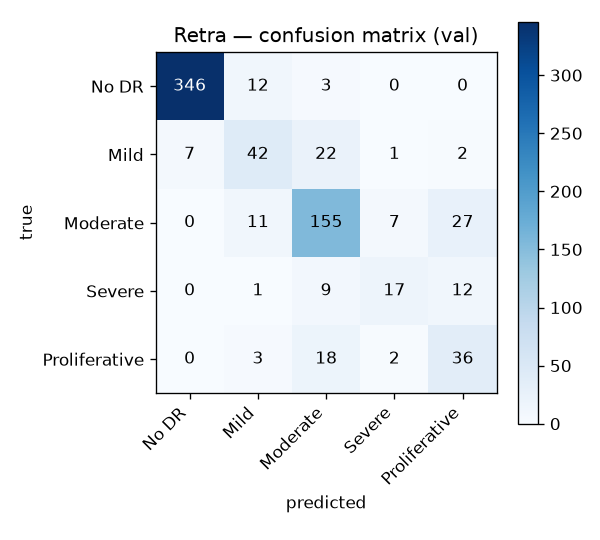
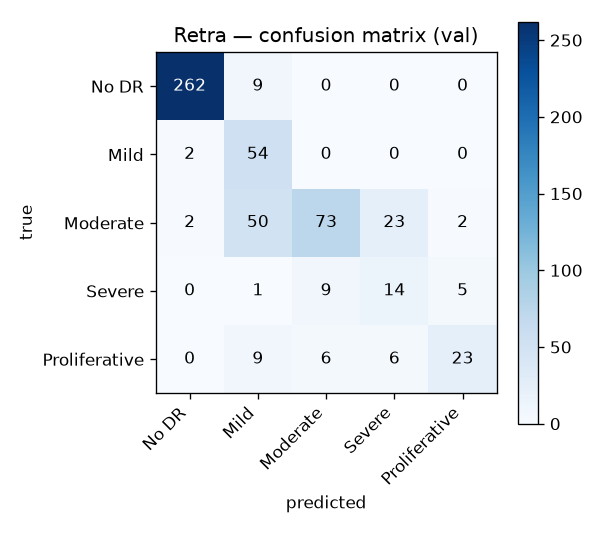
updated results for the b3 model

diff --git a/README.md b/README.md
@@ -34,20 +34,25 @@ Proliferative DR case.*
 
 ## Results
 
-EfficientNet-B0, 20 epochs, class-weighted loss, on the APTOS 2019 validation
-split (733 images, best epoch):
+EfficientNet-B3 @ 300px with Ben Graham preprocessing, class-weighted +
+label-smoothed loss, cosine LR, EMA weights, and test-time augmentation —
+selected on **quadratic weighted kappa** (the standard DR grading metric) over
+the APTOS 2019 validation split (550 images):
 
-| metric      | value |
-| ----------- | ----- |
-| accuracy    | 0.813 |
-| macro F1    | 0.673 |
-| weighted F1 | 0.814 |
+| metric                | B0 baseline | B3 (current) |
+| --------------------- | ----------- | ------------ |
+| quadratic kappa (QWK) | 0.78        | **0.868**    |
+| accuracy              | 0.813       | 0.775        |
+| macro F1              | 0.673       | 0.641        |
 
 ![Confusion matrix](docs/confusion_matrix.png)
 
-Per-class F1 runs from 0.97 (No DR) down to ~0.52 for the rarer Severe /
-Proliferative grades — the usual APTOS class imbalance. Reproduce with
-`python ml/evaluate.py`.
+QWK improves a lot because most remaining errors are *adjacent* grades (e.g.
+Moderate→Mild), which the ordinal metric barely penalises. Raw accuracy dips
+slightly because the class weighting over-corrects toward the rare grades — the
+model over-predicts Mild and under-grades Moderate. Softening the class weights
+(see `weight_power` in [config.yaml](ml/config.yaml)) is the clear next lever.
+Reproduce with `python ml/evaluate.py`.
 
 ## Structure
 